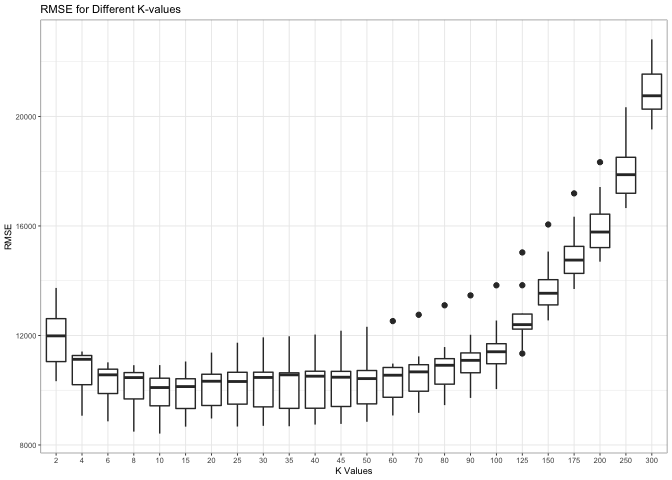
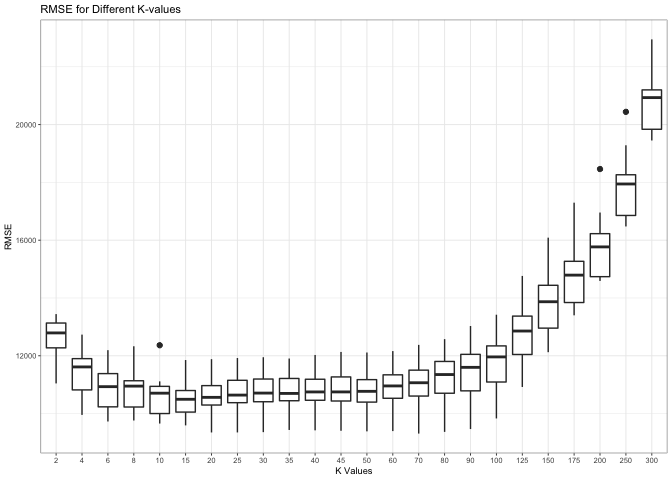
updated 2/7 5:22p

diff --git a/hw1_datamining_hjones.md b/hw1_datamining_hjones.md
@@ -123,9 +123,9 @@ The K versus RMSE chart is shown below:
 ![](hw1_datamining_hjones_files/figure-markdown_github/unnamed-chunk-16-1.png)
 
 The above chart shows that K value versus RMSE. The RMSE mean value
-bottoms out at k=15. Using the “1SE” (one standard error) rule, taking
-the k-value where the mean RMSE is about one standard error above the
-minimum, yields an optimal k-value of 125.
+bottoms out somewhere between k=10 and k=15. Using the “1SE” (one
+standard error) rule, taking the k-value where the mean RMSE is about
+one standard error above the minimum, yields an optimal k-value of 60.
 
 ![](hw1_datamining_hjones_files/figure-markdown_github/unnamed-chunk-17-1.png)
 
@@ -139,7 +139,7 @@ mileage for the 350 trim level.
 The above chart shows that K value versus RMSE. The RMSE mean value
 bottoms out at k=15. Using the “1SE” (one standard error) rule, taking
 the k-value where the mean RMSE is about one standard error above the
-minimum, yields an optimal k-value of 60.
+minimum, yields an optimal k-value of 50.
 
 ![](hw1_datamining_hjones_files/figure-markdown_github/unnamed-chunk-19-1.png)
 
@@ -148,8 +148,8 @@ mileage for the 65 AMG trim level.
 
 Looking at the two K-vs-RMSE graphs above for the two trim levels, it is
 interesting to see that though both graphs reach their low RMSE at k=15,
-using the one standard error rule yields the optimal value of k=125 for
-the 350 trim-level and k=60 for the 65 AMG trim level. This is likely
+using the one standard error rule yields the optimal value of k=60 for
+the 350 trim-level and k=50 for the 65 AMG trim level. This is likely
 due to the distribution of data point for the two trim levels. The 350
 trim level has a good distribution of data, so is able to be represented
 through a prediction based on a large k-value. There are more data
